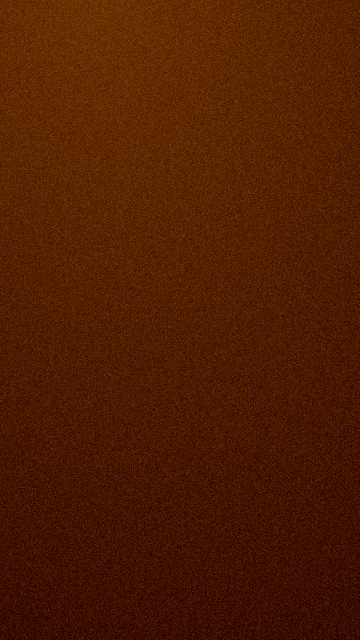
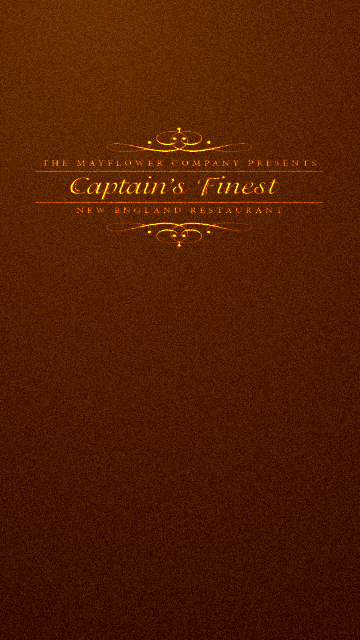
update main

Changed region(s): [[0.1833, 0.1875, 0.8861, 0.4062], [0.1222, 0.25, 0.1833, 0.2812]]

diff --git a/main.html b/main.html
@@ -1,18 +1,25 @@
-<html>
+<!doctype html>
+<html lang="en">
 
 <head>
+    <meta charset="UTF-8" />
+    <title>Mayflower</title>
     <link rel="preconnect" href="https://fonts.googleapis.com">
     <link rel="preconnect" href="https://fonts.gstatic.com" crossorigin>
     <link href="https://fonts.googleapis.com/css2?family=Jockey+One&display=swap" rel="stylesheet">
     <style>
-        .body {
+        body {
             background-image: url(ui_bg.png);
             color: white;
             font-family: 'Jockey One', sans-serif;
             text-align: center;
-            width: 100%;
+            bottom: 50px;
+            left: 0px;
+            background-size: 400px;
+            position: absolute;
             font-size: 24px;
             z-index: 4;
+            padding: 25px;
         }
 
         #text {
@@ -20,11 +27,14 @@
             margin: auto;
         }
     </style>
-
 </head>
 
 <body>
-
+    <div>Willkommen zur interaktiven Erweiterung des Menüs!</div>
+    <div style="font-size: 16px;"> <br> <br> Halte dein Handy über die einzelnen Seiten um die Geschichte der Mayflower
+        verfolgen zu können.
+    </div>
+    <div style="font-size: 18px;"> <br> klicke um weiter zu kommen ▸</div>
 </body>
 
 </html>
